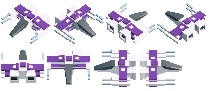
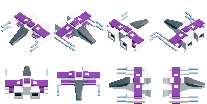
Heavy sprites centered

diff --git a/Source/Motor2D/Heavy.cpp b/Source/Motor2D/Heavy.cpp
@@ -195,16 +195,62 @@ void Heavy::AttachHealthbarToEntity()
 
 void Heavy::InitUnitSpriteSections()
 {
-	entity_sprite_section = { 58, 0, 58, 47 };						//Down Right
+	//entity_sprite_section = { 58, 0, 58, 47 };						//Down Right
 
-	pathing_up_section = { 0, 47, 70, 52 };
-	pathing_down_section = { 71, 47, 70, 52 };
-	pathing_rigth_section = { 202, 47, 59, 52 };
-	pathing_left_section = { 142, 47, 59, 52 };
-	pathing_up_right_section = { 116, 0, 60, 47 };
-	pathing_up_left_section = { 176, 0, 59, 47 };
-	pathing_down_right_section = { 58, 0, 58, 47 };
-	pathing_down_left_section = { 0, 0, 58, 47 };
+	//pathing_up_section = { 0, 47, 70, 52 };
+	//pathing_down_section = { 71, 47, 70, 52 };
+	//pathing_rigth_section = { 202, 47, 59, 52 };
+	//pathing_left_section = { 142, 47, 59, 52 };
+	//pathing_up_right_section = { 116, 0, 60, 47 };
+	//pathing_up_left_section = { 176, 0, 59, 47 };
+	//pathing_down_right_section = { 58, 0, 58, 47 };
+	//pathing_down_left_section = { 0, 0, 58, 47 };
+
+		//	 --- LOADING FROM XML ---
+	pugi::xml_node sections = App->entities_file.child("entities").child("units").child("allies").child("heavy").child("sprite_sections");
+
+	pathing_up_section.x = sections.child("pathing_up").attribute("x").as_int();
+	pathing_up_section.y = sections.child("pathing_up").attribute("y").as_int();
+	pathing_up_section.w = sections.child("pathing_up").attribute("w").as_int();
+	pathing_up_section.h = sections.child("pathing_up").attribute("h").as_int();
+
+	pathing_down_section.x = sections.child("pathing_down").attribute("x").as_int();
+	pathing_down_section.y = sections.child("pathing_down").attribute("y").as_int();
+	pathing_down_section.w = sections.child("pathing_down").attribute("w").as_int();
+	pathing_down_section.h = sections.child("pathing_down").attribute("h").as_int();
+
+	pathing_rigth_section.x = sections.child("pathing_right").attribute("x").as_int();
+	pathing_rigth_section.y = sections.child("pathing_right").attribute("y").as_int();
+	pathing_rigth_section.w = sections.child("pathing_right").attribute("w").as_int();
+	pathing_rigth_section.h = sections.child("pathing_right").attribute("h").as_int();
+
+	pathing_left_section.x = sections.child("pathing_left").attribute("x").as_int();
+	pathing_left_section.y = sections.child("pathing_left").attribute("y").as_int();
+	pathing_left_section.w = sections.child("pathing_left").attribute("w").as_int();
+	pathing_left_section.h = sections.child("pathing_left").attribute("h").as_int();
+
+	pathing_up_right_section.x = sections.child("pathing_up_right").attribute("x").as_int();
+	pathing_up_right_section.y = sections.child("pathing_up_right").attribute("y").as_int();
+	pathing_up_right_section.w = sections.child("pathing_up_right").attribute("w").as_int();
+	pathing_up_right_section.h = sections.child("pathing_up_right").attribute("h").as_int();
+
+	pathing_up_left_section.x = sections.child("pathing_up_left").attribute("x").as_int();
+	pathing_up_left_section.y = sections.child("pathing_up_left").attribute("y").as_int();
+	pathing_up_left_section.w = sections.child("pathing_up_left").attribute("w").as_int();
+	pathing_up_left_section.h = sections.child("pathing_up_left").attribute("h").as_int();
+
+	pathing_down_right_section.x = sections.child("pathing_down_right").attribute("x").as_int();
+	pathing_down_right_section.y = sections.child("pathing_down_right").attribute("y").as_int();
+	pathing_down_right_section.w = sections.child("pathing_down_right").attribute("w").as_int();
+	pathing_down_right_section.h = sections.child("pathing_down_right").attribute("h").as_int();
+
+	pathing_down_left_section.x = sections.child("pathing_down_left").attribute("x").as_int();
+	pathing_down_left_section.y = sections.child("pathing_down_left").attribute("y").as_int();
+	pathing_down_left_section.w = sections.child("pathing_down_left").attribute("w").as_int();
+	pathing_down_left_section.h = sections.child("pathing_down_left").attribute("h").as_int();
+
+	//Default section
+	entity_sprite_section = pathing_down_right_section;
 }
 
 void Heavy::UpdateUnitSpriteSection()
